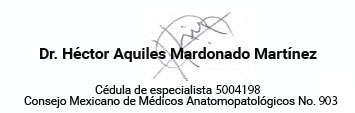
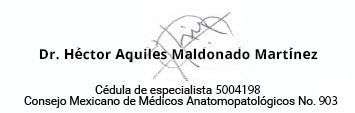
reparación de firma y de campo de enriquecimiento

Changed region(s): [[0.093, 0.3982, 0.8986, 0.5575]]

diff --git a/resources/js/pages/estudios/edit/laboratorio.tsx b/resources/js/pages/estudios/edit/laboratorio.tsx
@@ -29,6 +29,7 @@ interface EditLaboratorioProps {
         R_NUMERO_CELULAS_TUMORALES?: string;
         R_AREA_TUMORAL?: string;
         R_PORCENTAJE_TUMOR_TEJIDO?: string;
+        R_ENRIQUECIMIENTO?: string;
         R_RAZON_ADECUADO_PROCESAMIENTO?: string;
         R_RESULTADO_HISTOPATOLOGICO?: string;
         ESTUDIO_NOTAS?: string;
@@ -74,6 +75,7 @@ export default function EditLaboratorioConCondicionales() {
     // Estado para processing y campos que requieren reactividad
     const [processing, setProcessing] = useState(false);
     const [estudiosSeleccionados, setEstudiosSeleccionados] = useState(estudio.R_ESTUDIO_SOLICITADO || '');
+    const [enriquecimiento, setEnriquecimiento] = useState(estudio.R_ENRIQUECIMIENTO || '');
     const [adecuadoProcesamiento, setAdecuadoProcesamiento] = useState(estudio.R_ADECUADO_PROCESAMIENTO || '');
     const [resultadosCompletos, setResultadosCompletos] = useState(estudio.R_COMPLETOS === 'si');
     const [metodoSeleccionado, setMetodoSeleccionado] = useState(estudio.R_METODO_PROCESO || '');
@@ -298,6 +300,12 @@ export default function EditLaboratorioConCondicionales() {
         const nuevoEstudio = e.target.value;
         console.log('🔄 Cambiando estudio solicitado de:', estudiosSeleccionados, 'a:', nuevoEstudio);
         setEstudiosSeleccionados(nuevoEstudio);
+    };
+
+    const handleEnriquecimientoChange = (e: React.ChangeEvent<HTMLSelectElement>): void => {
+        const nuevoValor = e.target.value;
+        console.log('🔄 Cambiando enriquecimiento de:', enriquecimiento, 'a:', nuevoValor);
+        setEnriquecimiento(nuevoValor);
     };
 
     const handleAdecuadoProcesamientoChange = (e: React.ChangeEvent<HTMLSelectElement>): void => {
@@ -813,6 +821,20 @@ const getFormData = useCallback((): Record<string, any> => {
                                                     %
                                                 </span>
                                             </div>
+                                        </div>
+
+                                        <div>
+                                            <label className={labelClass}>¿Enriquecimiento?</label>
+                                            <select
+                                                name="R_ENRIQUECIMIENTO"
+                                                className={selectClass}
+                                                value={enriquecimiento}
+                                                onChange={handleEnriquecimientoChange}
+                                            >
+                                                <option value="">Selecciona</option>
+                                                <option value="Si">Si</option>
+                                                <option value="No">No</option>
+                                            </select>
                                         </div>
 
                                         <div>
